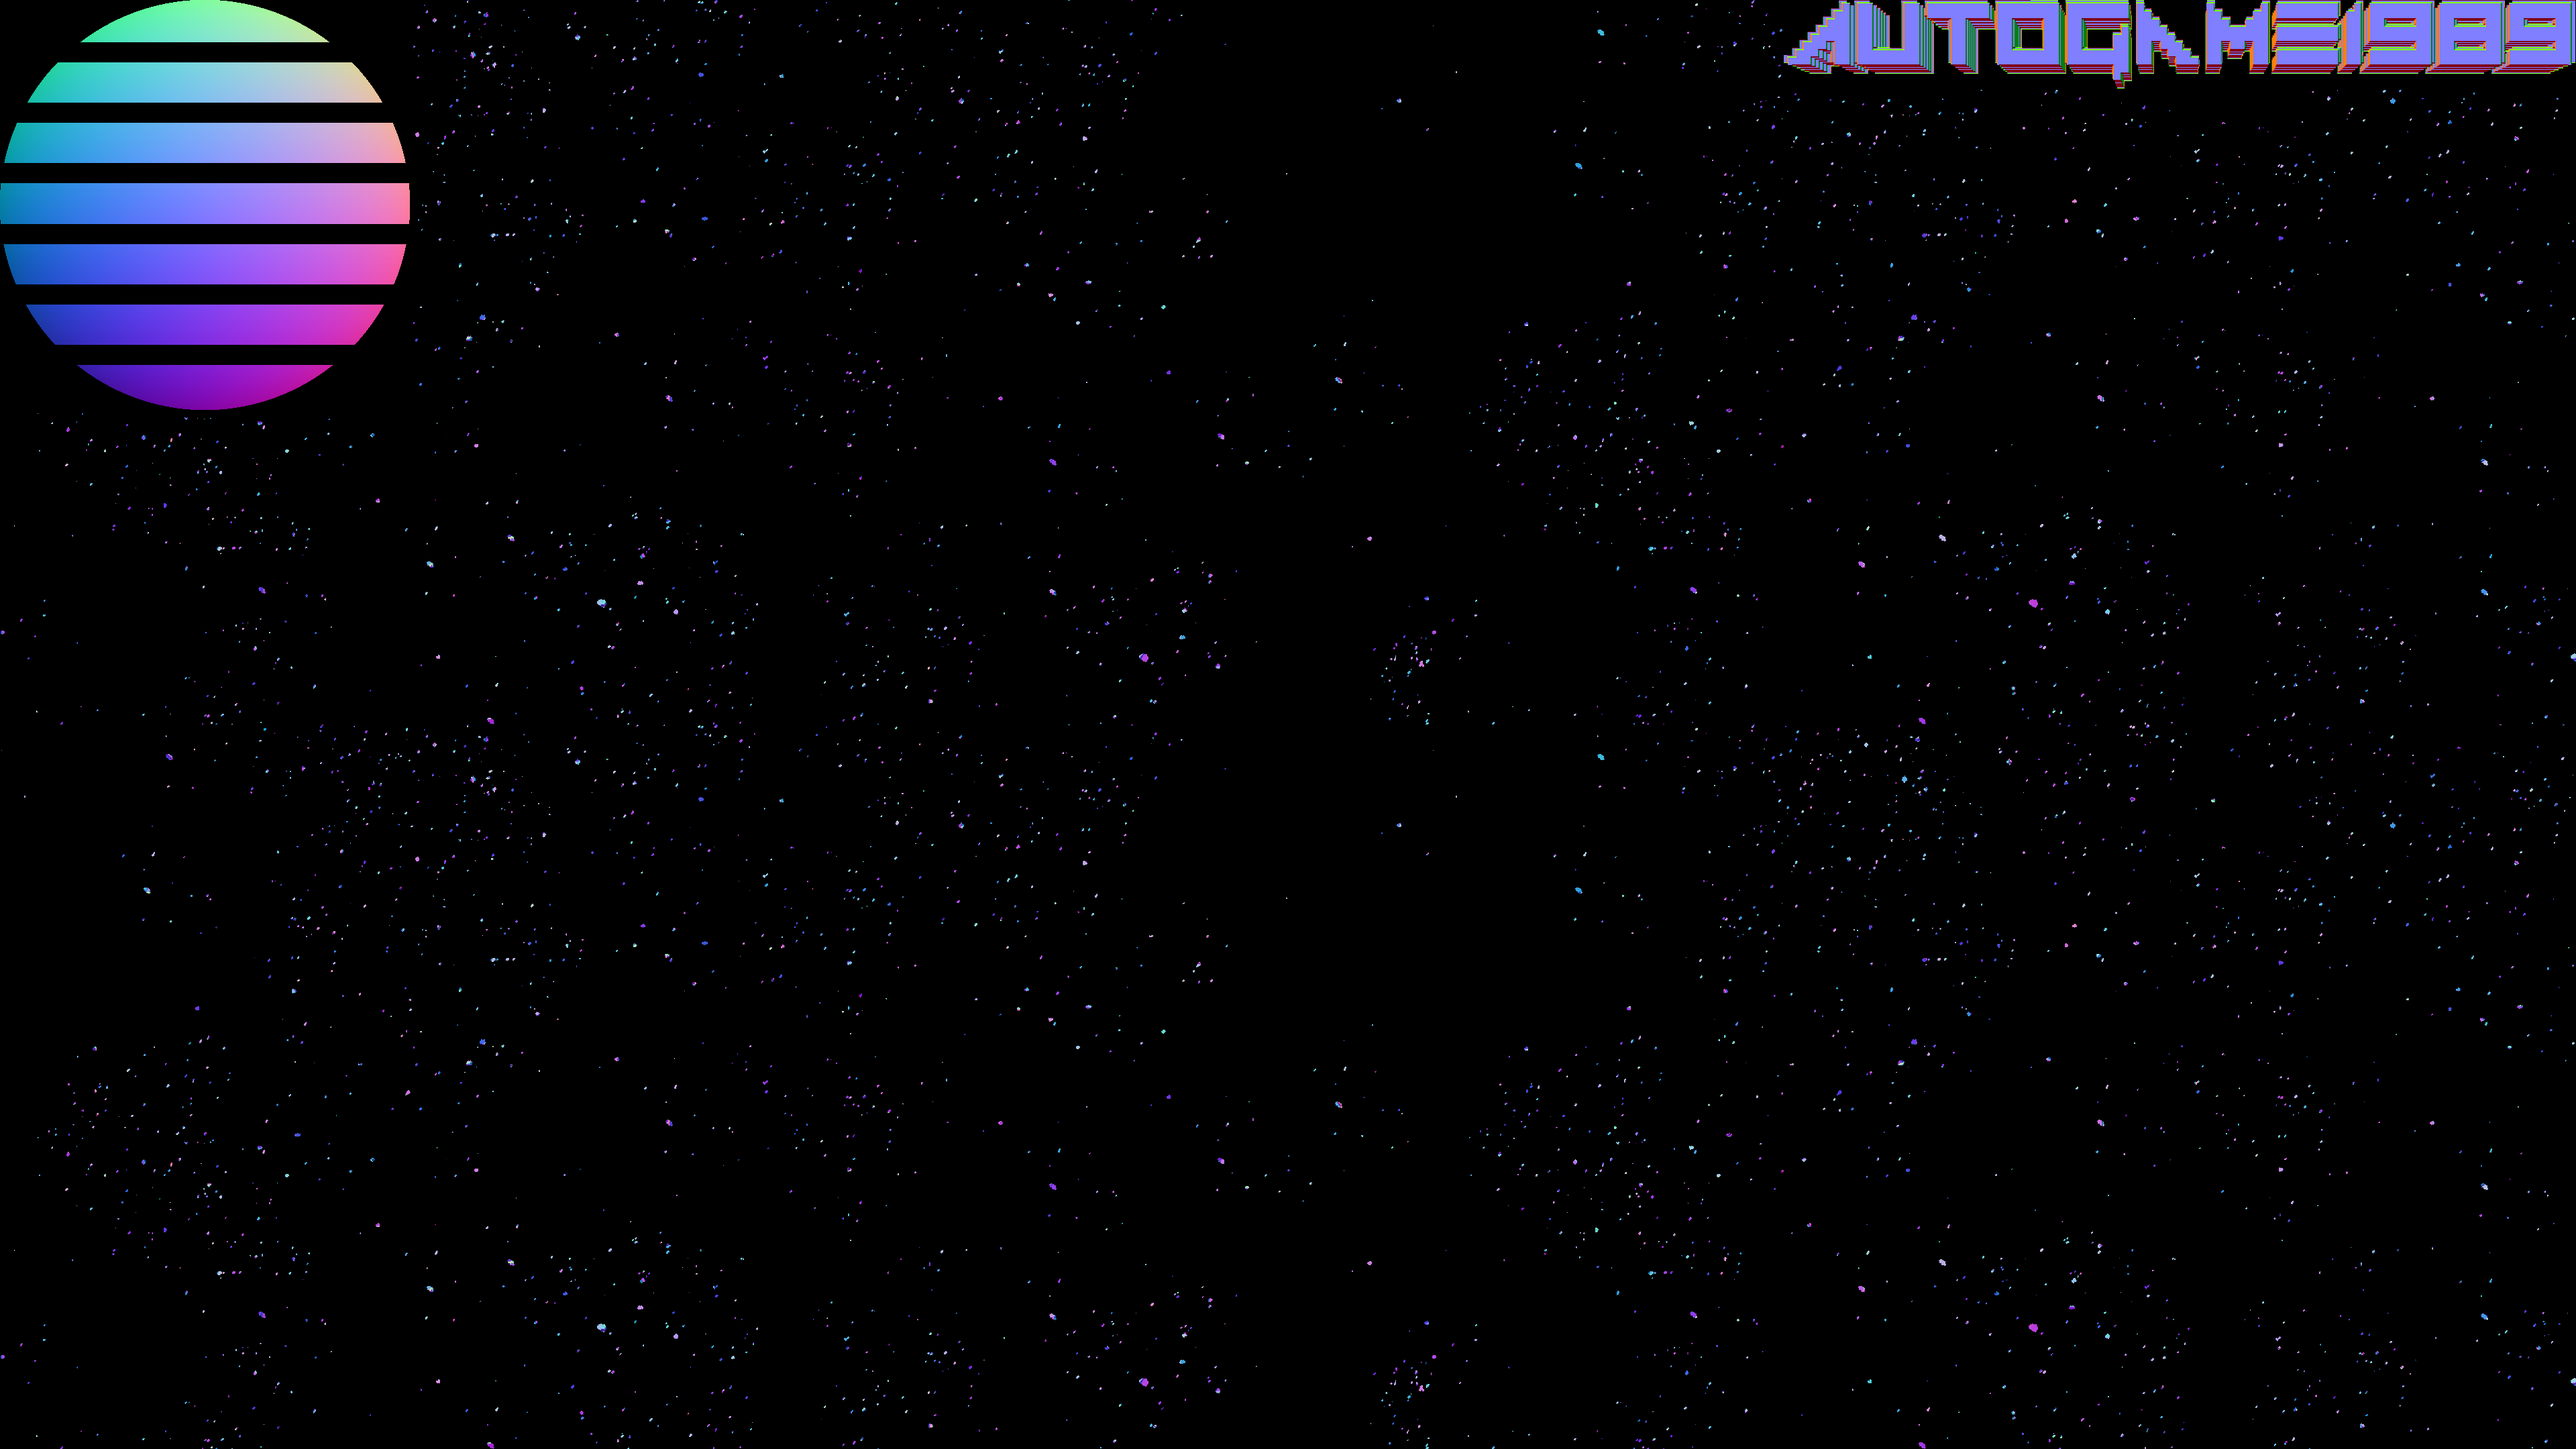
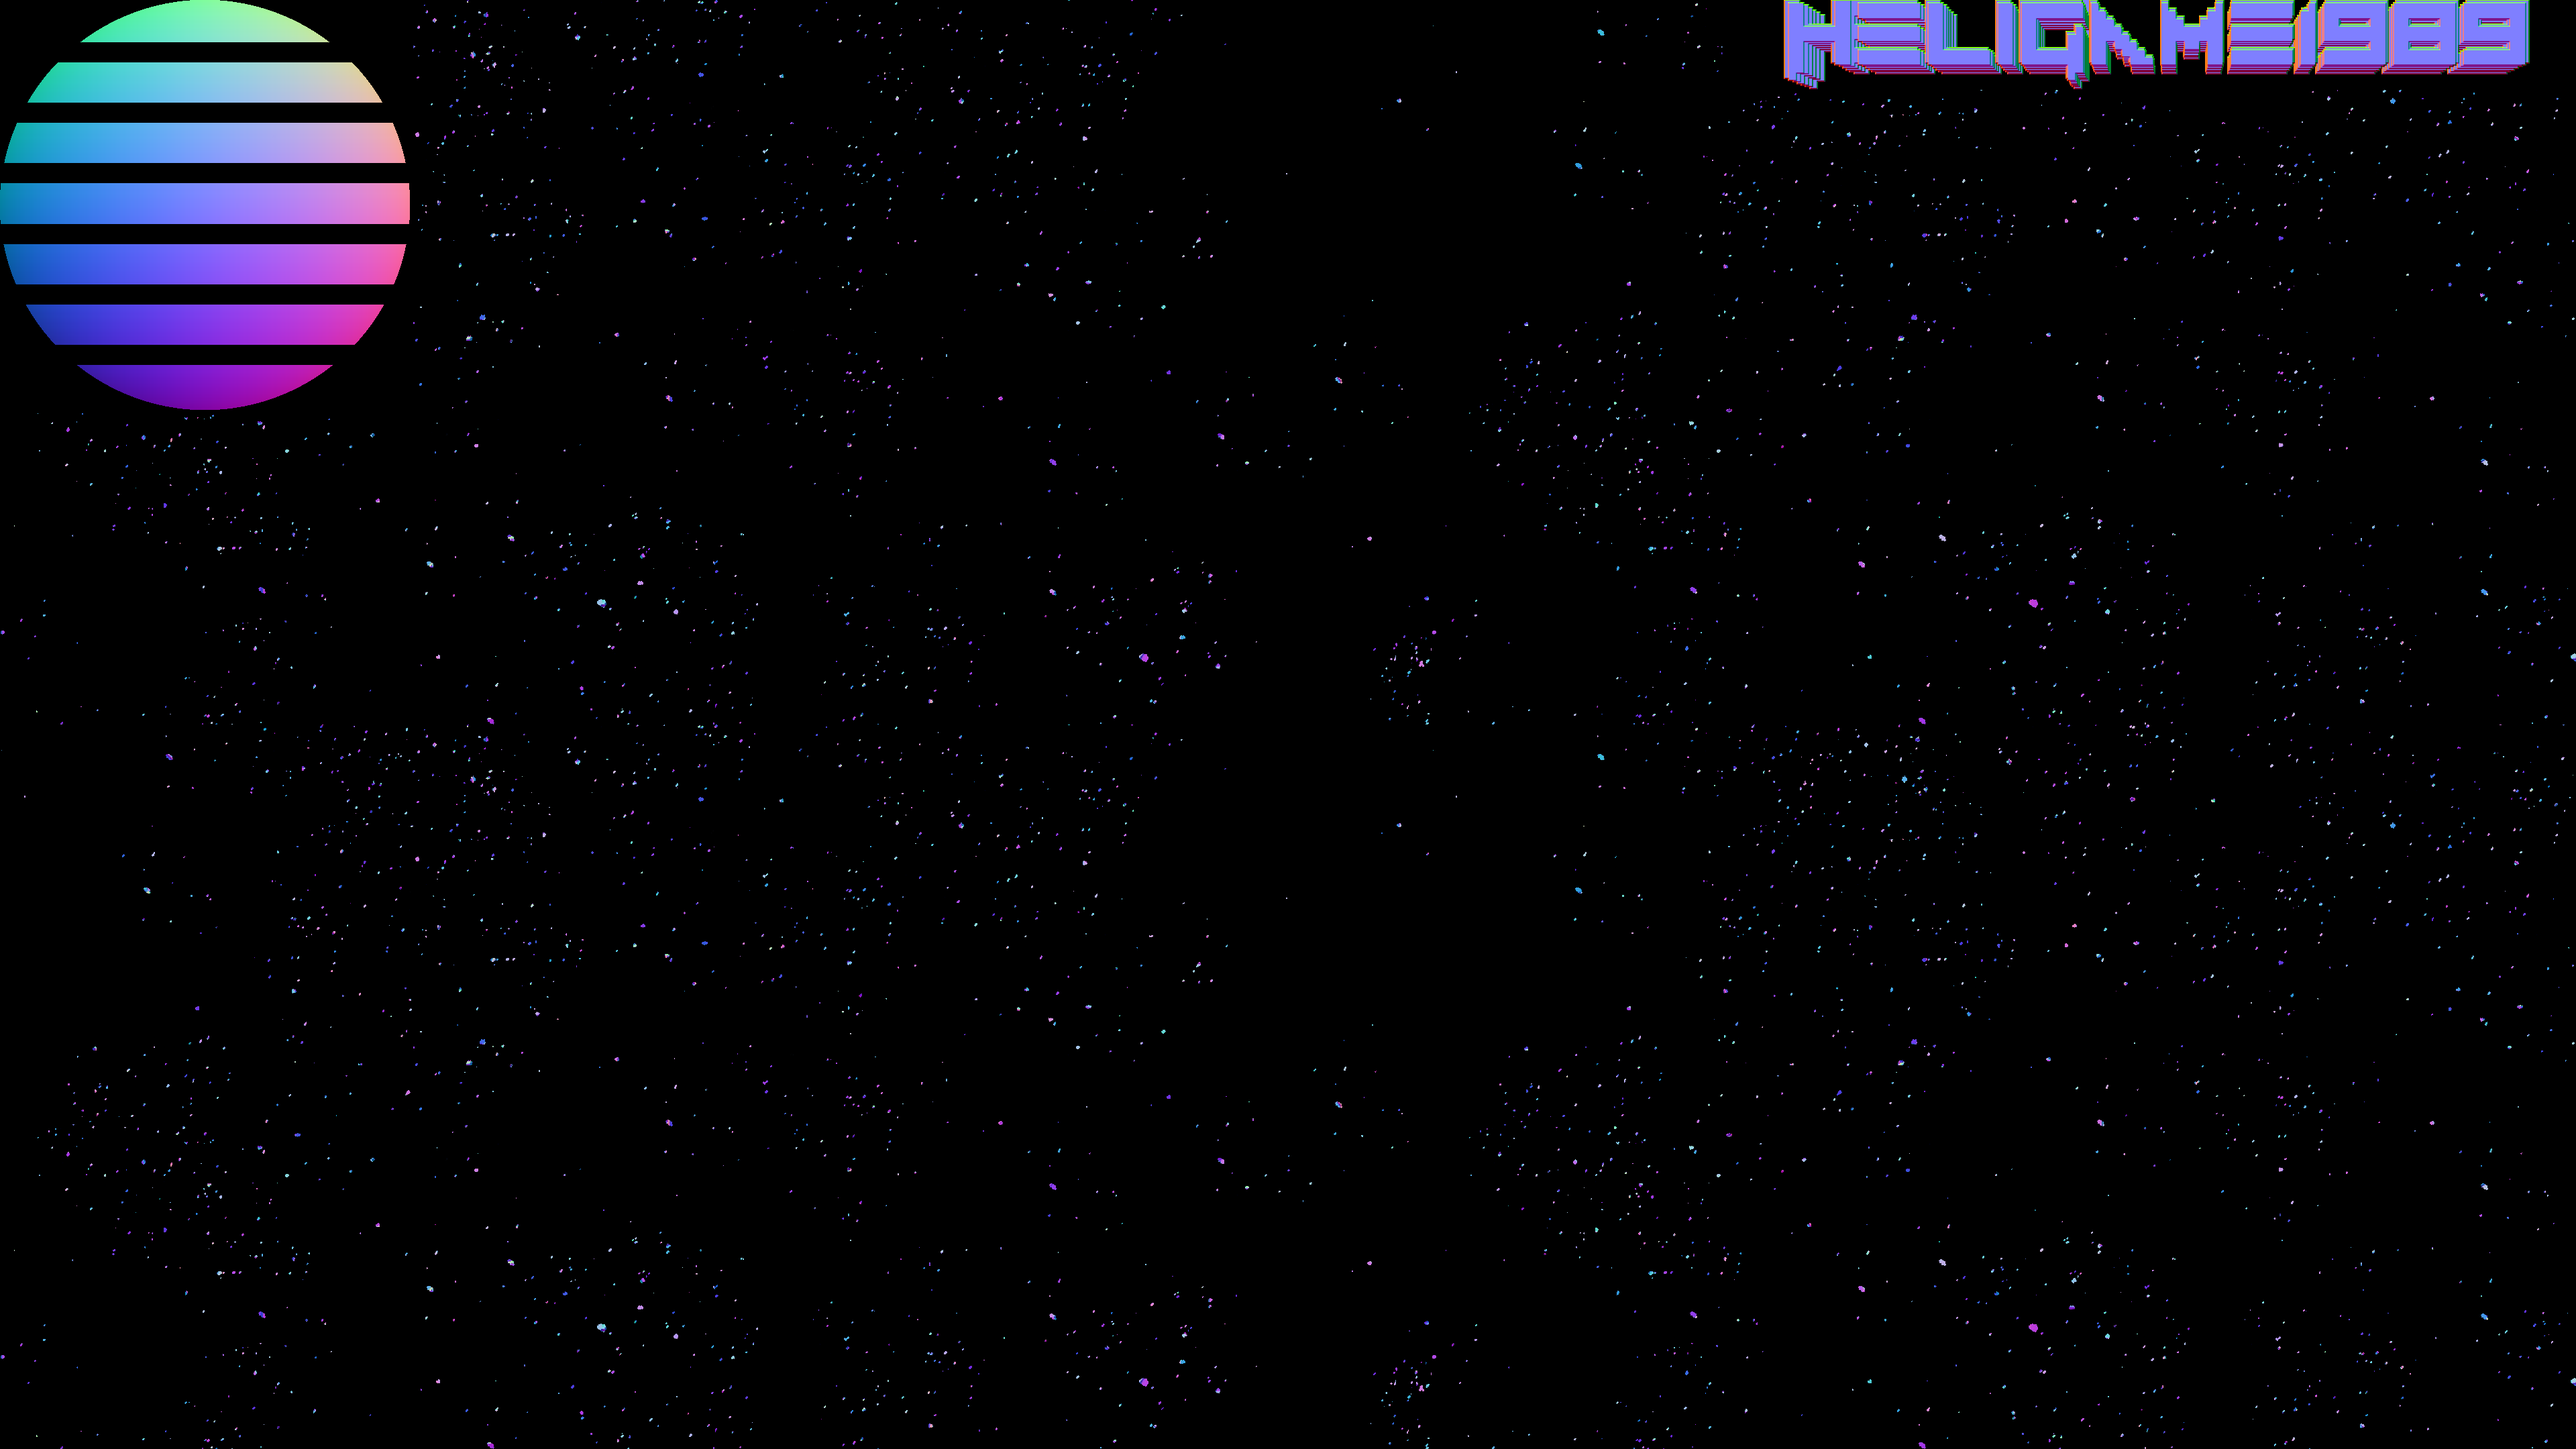
Update start screen art and layout

Changed region(s): [[0.6875, 0.0, 1.0, 0.062]]

diff --git a/HeliGame1989/Game.cpp b/HeliGame1989/Game.cpp
@@ -41,7 +41,7 @@ Game::Game() noexcept :
 
     m_currentGameState = GameState::GAMESTATE_GAMEPLAY;
 
-   // m_currentGameState = GameState::GAMESTATE_INTROSCREEN;
+    //m_currentGameState = GameState::GAMESTATE_INTROSCREEN;
 
     m_lighting->SetLighting(Lighting::LightingState::LIGHTINGSTATE_TEST01);
     m_lighting->SetLightingNormColorTextureVertex(Lighting::LightingState::LIGHTINGSTATE_TEST01);
@@ -703,11 +703,8 @@ void Game::DrawGridForStartScreen()
     DirectX::XMVECTORF32 gridColor = DirectX::Colors::LawnGreen;
     DirectX::XMVECTORF32 baseColor = DirectX::Colors::Black;
     DirectX::SimpleMath::Vector4 gridColor2(0.486274540f, 0.988235354f, 0.000000000f, 1.000000000f);// = DirectX::Colors::LawnGreen;
-    if (m_terrainVertexCount > 0)
-    {
-        gridColor2 = m_terrainVertexArray[0].color;
-    }
-
+    gridColor2 = m_startScreenGridDimmerColor;
+    
     const float xBase = 1.1;
     const float yBase = 0.0;
     const float zBase = -4.0;
@@ -1533,7 +1530,7 @@ void Game::DrawStartScreen()
     bottomLeft += titleOrigin;
 
     uStart = 0.6927083333333333;
-    uStop = 1.0;
+    uStop = 0.989;
     vStart = 0.0;
     vStop = 0.0611111111111111;
 
@@ -2772,6 +2769,7 @@ void Game::SetFogVals3(const DirectX::SimpleMath::Vector3 aTargetPos, const floa
 
 void Game::SetTerrainGridDimmer(const float aDimmerVal)
 {
+    /*
     for (int i = 0; i < m_terrainVertexCount; ++i)
     {
         DirectX::SimpleMath::Vector4 dimmerColor(0.486274540f, 0.988235354f, 0.000000000f, 1.000000000f);// = DirectX::Colors::LawnGreen;
@@ -2779,6 +2777,19 @@ void Game::SetTerrainGridDimmer(const float aDimmerVal)
         dimmerColor *= aDimmerVal;
         m_terrainVertexArray[i].color = dimmerColor;
     }
+    */
+    /*
+    for (int i = 0; i < m_terrainStartScreen.terrainVertexCount; ++i)
+    {
+        DirectX::SimpleMath::Vector4 dimmerColor(0.486274540f, 0.988235354f, 0.000000000f, 1.000000000f);// = DirectX::Colors::LawnGreen;
+        //DirectX::SimpleMath::Vector4 dimmerColor = m_terrainVertexArray[i].color;
+        dimmerColor *= aDimmerVal;
+        m_terrainStartScreen.terrainVertexArray[i].color = dimmerColor;
+    }
+    */
+    DirectX::SimpleMath::Vector4 dimmerColor(0.486274540f, 0.988235354f, 0.000000000f, 1.000000000f);// = DirectX::Colors::LawnGreen;
+    dimmerColor *= aDimmerVal;
+    m_startScreenGridDimmerColor = dimmerColor;
 }
 
 void Game::TestDraw()
@@ -2930,10 +2941,11 @@ void Game::Render()
     }
 
     //DrawDebugLines();
+    DrawStartScreen();
     if (m_currentGameState == GameState::GAMESTATE_GAMEPLAY)
     {
         //m_vehicle->DrawModel(m_camera->GetViewMatrix(), m_proj);
-        DrawStartScreen();
+        //DrawStartScreen();
         if (m_isInDebugMode == true)
         {
             //DrawCameraFocus();
@@ -2975,7 +2987,7 @@ void Game::Render()
     }
     if (m_currentGameState == GameState::GAMESTATE_TEASERSCREEN)
     {
-        DrawLightBar();
+        //DrawLightBar();
     }
 
     //m_effect2->EnableDefaultLighting();
@@ -3024,8 +3036,8 @@ void Game::Render()
 
     //DrawTerrainNormals();
     //DrawDebugNormalLines(m_vehicle->GetModelTestPos(), DirectX::Colors::Blue);
-    DrawDebugLinesVector();
-    DrawGridForStartScreen();
+    //DrawDebugLinesVector();
+    //DrawGridForStartScreen();
     if (m_currentGameState == GameState::GAMESTATE_STARTSCREEN)
     {
         DrawGridForStartScreen();
@@ -3143,7 +3155,7 @@ void Game::Update(DX::StepTimer const& aTimer)
             m_retryAudio = true;
         }
     }
-  
+    m_lighting->SetLighting(Lighting::LightingState::LIGHTINGSTATE_BMW);
     UpdateInput(aTimer);
     m_vehicle->UpdateVehicle(aTimer.GetElapsedSeconds());
     

diff --git a/HeliGame1989/Game.h b/HeliGame1989/Game.h
@@ -308,7 +308,7 @@ private:
     int                                  m_terrainVertexCount2;
     Terrain m_terrainGamePlay;
     Terrain m_terrainStartScreen;
-
+    DirectX::SimpleMath::Vector4        m_startScreenGridDimmerColor = DirectX::SimpleMath::Vector4(0.486274540f, 0.988235354f, 0.000000000f, 1.000000000f);// = DirectX::Colors::LawnGreen;
     float                               m_debugValue1 = 0.0;
     float                               m_debugValue2 = 0.0;
     float                               m_debugValue3 = 0.0;
@@ -320,8 +320,8 @@ private:
 
     // start scene control variables
     const float                         m_fadeDuration = 5.0f;
-    const float                         m_logoDisplayDuration = 7.5f;
-    const float                         m_logoDisplayGap = 0.2f;
+    const float                         m_logoDisplayDuration = 12.5f;
+    const float                         m_logoDisplayGap = 1.0f;
     const float                         m_startDelay = 0.2f;
 
     const float                         m_fogGap1 = 0.0;

diff --git a/HeliGame1989/Environment.cpp b/HeliGame1989/Environment.cpp
@@ -626,7 +626,7 @@ void Environment::InitializeHeightMapData()
     // initialize game play map
     m_heightMapGamePlayData.heightScale = 0.009f;
     m_heightMapGamePlayData.mapScale = 1000.30f;
-    m_heightMapGamePlayData.mapXtransform = -16.0f * m_heightMapGamePlayData.mapScale;
+    m_heightMapGamePlayData.mapXtransform = -16.0f * m_heightMapGamePlayData.mapScale + 10.0f;
     m_heightMapGamePlayData.mapYtransform = 0.0f;
     m_heightMapGamePlayData.mapZtransform = -16.0f * m_heightMapGamePlayData.mapScale;
     
